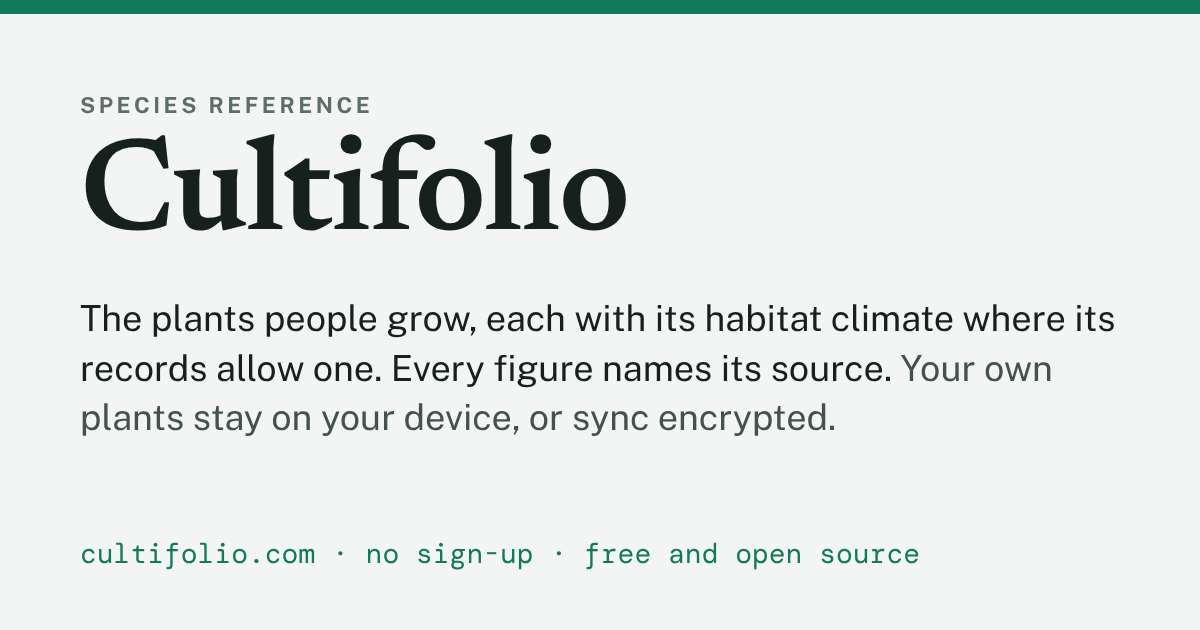
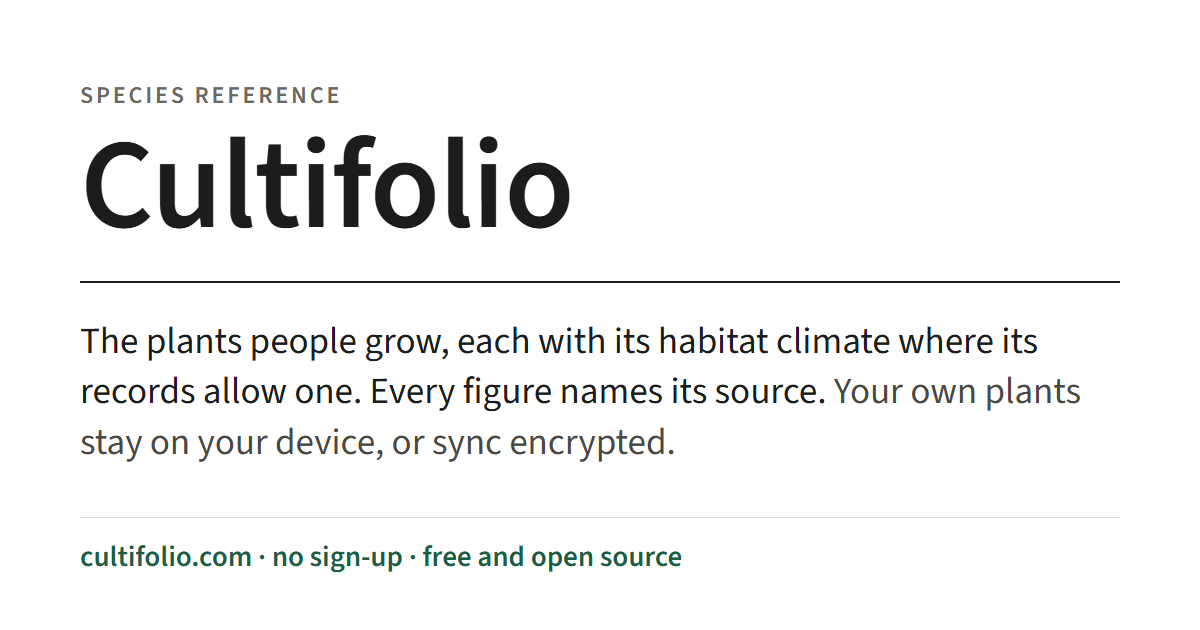
Round 90: the link-preview image in round 87's type, from the site's own font files; a dry run of the typical-spot rule, ready to run; BHL by IPNI's title measured; the record
The link-preview image (static/app/og.png, what a shared cultifolio.com link shows) was still drawn in Newsreader,
Public Sans and DM Mono on a green bar, the look round 87 replaced, and scripts/dev/og.mjs read those faces from their
npm packages. It is drawn again from scripts/dev/og.html in Source Sans 3 alone (the wordmark at the site's weight 600,
near-black on white, a rule under the name, the address line in the link green), from static/fonts/, with the words
unchanged so OG_ALT still says them. Nothing in the project now reads the three old packages; the owner removes them from
package.json in a commit of his own.

scripts/corpus-plan-r90-typical.txt: a dry run of every page under this round's code, then a review whose checks hold
climates gained and lost at 50 or under and read the typical spots moved. It writes nothing to the corpus and uploads
nothing; it runs after a day's daily run.

Lead 2 measured on 250 of the 3,997 citations the BHL fill had asked: IPNI gives no page, but its publication's BHL title
id. Asked by it, BHL gave the fill's page on 92 of 100 the fill had linked (none another), and a page on 22 of 150 it had
not, all of them citations where Kew's title matched several books. 1,427 of the fill's 3,082 none are that case.

Tests: r90e-og-faces (3 of 4 FAILED on 8df264e: og.mjs read the old faces' packages), r90f-typical-plan (the plan's
[…]

diff --git a/tests/unit/r90e-og-faces.test.ts b/tests/unit/r90e-og-faces.test.ts
@@ -1,0 +1,59 @@
+/**
+ * Round ninety: the link-preview image (static/app/og.png, drawn by scripts/dev/og.mjs from scripts/dev/og.html) in round
+ * eighty-seven's type, from the files the site serves, and nothing in the project left reading the old faces' packages, so
+ * the owner can remove them from package.json (@fontsource-variable/newsreader, @fontsource-variable/public-sans,
+ * @fontsource/dm-mono).
+ *
+ * On 8df264e: FAILED. og.mjs read the three faces from node_modules/@fontsource…, og.html drew Newsreader, Public Sans and
+ * DM Mono on a green bar, and the image was that drawing: every share of a cultifolio.com link showed the look round
+ * eighty-seven replaced.
+ */
+import { describe, it, expect } from 'vitest';
+import { readFileSync, readdirSync, statSync } from 'node:fs';
+import { join } from 'node:path';
+
+const OLD = /@fontsource-variable\/newsreader|@fontsource-variable\/public-sans|@fontsource\/dm-mono/;
+
+/** Every file under a folder with one of the extensions, the folder's own node_modules left out. */
+function files(dir: string, ext: RegExp): string[] {
+  const out: string[] = [];
+  for (const e of readdirSync(dir, { withFileTypes: true })) {
+    if (e.name === 'node_modules' || e.name.startsWith('.')) continue;
+    const p = join(dir, e.name);
+    if (e.isDirectory()) out.push(...files(p, ext));
+    else if (ext.test(e.name)) out.push(p);
+  }
+  return out;
+}
+
+describe('r90e: the link-preview image in the site\'s own faces', () => {
+  it('og.mjs reads the fonts the site serves, not an npm package', () => {
+    const js = readFileSync('scripts/dev/og.mjs', 'utf8');
+    expect(js).not.toMatch(/@fontsource|node_modules/); // base: node_modules/@fontsource-variable/newsreader/…
+    expect(js).toContain("'static/fonts/'");
+    expect(statSync('static/fonts/source-sans-3/source-sans-3-latin-wght-normal.woff2').size).toBeGreaterThan(10_000);
+  });
+
+  it('og.html draws in Source Sans 3 alone, on the light theme\'s white and ink', () => {
+    const html = readFileSync('scripts/dev/og.html', 'utf8').replace(/<!--[\s\S]*?-->/, '');
+    expect([...html.matchAll(/font-family: '([^']+)'/g)].map((m) => m[1])).toEqual(['Source Sans 3', 'Source Sans 3']);
+    expect(html).not.toMatch(/Newsreader|Public Sans|DM Mono|FONT_SERIF|FONT_MONO/);
+    const css = readFileSync('src/lib/ui/theme.css', 'utf8');
+    for (const c of ['#ffffff', '#1b1d1c', '#1d5c45']) {
+      expect(html, c).toContain(c);
+      expect(css, c).toContain(c);
+    }
+  });
+
+  it('the image is a 1200 × 630 PNG', () => {
+    const png = readFileSync('static/app/og.png');
+    expect(png.subarray(1, 4).toString()).toBe('PNG');
+    expect([png.readUInt32BE(16), png.readUInt32BE(20)]).toEqual([1200, 630]);
+  });
+
+  it('nothing in the project imports the old faces\' packages, so removing them from package.json breaks nothing', () => {
+    const all = [...files('src', /\.(ts|js|svelte|css|html)$/), ...files('scripts', /\.(ts|js|mjs|cjs|html)$/), ...files('tests', /\.(ts|js|mjs)$/).filter((f) => !f.endsWith('r90e-og-faces.test.ts')), 'svelte.config.js', 'vite.config.ts'];
+    const using = all.filter((f) => OLD.test(readFileSync(f, 'utf8')));
+    expect(using).toEqual([]); // base: scripts/dev/og.mjs
+  });
+});

diff --git a/scripts/dev/og.html b/scripts/dev/og.html
@@ -4,28 +4,27 @@
   page's own (the title, the pitch's first two sentences, the head's "No sign-up"), and OG_ALT in src/lib/ui/ref/head.ts
   says them as they are drawn: change one, change the other. No figure on it: the counts move with every corpus, and an
   image is not redrawn with the corpus (round sixty-three; the review of round sixty-two, 8 and 11).
-  The fonts are the site's, put in by og.mjs (FONT_* below); the colours are theme.css's light theme.
+  Round ninety: drawn in round eighty-seven's type and look (the owner's): Source Sans 3 for every word, the wordmark at the
+  site's weight 600, near-black on white, thin rules, the link green; it was still Newsreader, Public Sans and DM Mono on a
+  green bar. The fonts are the files the site serves (static/fonts/), put in by og.mjs (FONT_* below); the colours are
+  theme.css's light theme.
 -->
 <html lang="en-GB">
 <head>
 <meta charset="utf-8">
 <style>
-  @font-face { font-family: 'Newsreader Variable'; font-weight: 200 800; src: url(FONT_SERIF) format('woff2'); }
-  @font-face { font-family: 'Public Sans Variable'; font-weight: 100 900; src: url(FONT_SANS) format('woff2'); }
-  @font-face { font-family: 'DM Mono'; font-weight: 400; src: url(FONT_MONO) format('woff2'); }
+  @font-face { font-family: 'Source Sans 3'; font-style: normal; font-weight: 200 900; src: url(FONT_SANS) format('woff2'); }
   html, body { margin: 0; }
-  body { width: 1200px; height: 630px; overflow: hidden; background: #f3f5f4; color: #16211d; font-family: 'Public Sans Variable', sans-serif; position: relative; }
-  .bar { position: absolute; inset: 0 0 auto 0; height: 14px; background: #12795a; }
-  main { position: absolute; left: 80px; right: 80px; top: 92px; }
-  .kick { font-size: 22px; font-weight: 700; letter-spacing: 0.16em; text-transform: uppercase; color: #5f6d67; margin: 0; }
-  h1 { font-family: 'Newsreader Variable', serif; font-weight: 600; font-size: 132px; line-height: 1; letter-spacing: -0.015em; margin: 14px 0 30px; }
-  p.pitch { font-size: 36px; line-height: 1.38; margin: 0; max-width: 1040px; color: #16211d; }
-  p.pitch span { color: #44524c; }
-  p.foot { position: absolute; left: 80px; bottom: 58px; margin: 0; font-family: 'DM Mono', monospace; font-size: 28px; color: #12795a; }
+  body { width: 1200px; height: 630px; overflow: hidden; background: #ffffff; color: #1b1d1c; font-family: 'Source Sans 3', sans-serif; position: relative; }
+  main { position: absolute; left: 80px; right: 80px; top: 78px; }
+  .kick { font-size: 24px; font-weight: 600; letter-spacing: 0.12em; text-transform: uppercase; color: #6b685f; margin: 0; }
+  h1 { font-weight: 600; font-size: 128px; line-height: 1; letter-spacing: -0.01em; margin: 10px 0 0; padding-bottom: 30px; border-bottom: 2px solid #1b1d1c; }
+  p.pitch { font-size: 37px; line-height: 1.36; margin: 34px 0 0; max-width: 1040px; color: #1b1d1c; }
+  p.pitch span { color: #4a4842; }
+  p.foot { position: absolute; left: 80px; right: 80px; bottom: 52px; margin: 0; padding-top: 18px; border-top: 1px solid #d9d6cf; font-size: 29px; font-weight: 600; color: #1d5c45; }
 </style>
 </head>
 <body>
-  <div class="bar"></div>
   <main>
     <p class="kick">Species reference</p>
     <h1>Cultifolio</h1>

diff --git a/tests/unit/r90f-typical-plan.test.ts b/tests/unit/r90f-typical-plan.test.ts
@@ -1,0 +1,39 @@
+/**
+ * Round ninety: scripts/corpus-plan-r90-typical.txt, the dry run that shows what the typical-spot rule of 14 November 2026
+ * (r90c) moves before the next walk moves it. The plan derives and writes nothing to the corpus: one dry run, then a review
+ * whose checks hold the climates gained and lost near zero and name the spots moved. No walk, no index, no upload.
+ *
+ * On 8df264e: FAILED (the plan was not there).
+ */
+import { describe, it, expect } from 'vitest';
+import { readFileSync } from 'node:fs';
+import { parsePlan } from '../../scripts/corpus-step.mjs';
+import { runChecks } from '../../scripts/review-checks.mjs';
+import { DryRunTotals } from '../../src/lib/dossier/range-dry-run';
+
+const plan = parsePlan(readFileSync('scripts/corpus-plan-r90-typical.txt', 'utf8')) as Array<{ line: string; kind: string; expects: Array<{ text: string }> }>;
+
+describe('r90f: the typical-spot dry run', () => {
+  it('one dry run of every page, offline, with the climate grid, then a review', () => {
+    expect(plan.map((s) => s.line.split(' ').slice(0, 2).join(' '))).toEqual(['dossier --dry-run', 'review Read']);
+    expect(plan[0].line).toBe('dossier --dry-run --offline --grid climate --bulk bulk');
+  });
+  it('writes nothing to the corpus and uploads nothing', () => {
+    expect(plan.some((s) => /--walk|--index|--keys|--fill/.test(s.line) || ['upload', 'backup', 'live-check'].includes(s.kind))).toBe(false);
+  });
+  it('the review checks its own figures: climates gained and lost at most 50, the spots moved read', () => {
+    expect(plan[1].expects?.map((e) => e.text)).toEqual(['let G /climates: ([\\d,]+) gained/', 'let L /climates: [\\d,]+ gained, ([\\d,]+) lost/', 'let M /typical spots moved: ([\\d,]+)/', 'G <= 50', 'L <= 50', 'M >= 0', 'no /COULD NOT BE READ/']);
+  });
+  it("the checks read the dry run's own summary: they pass on a run that moves spots, and stop one that loses climates", () => {
+    const run = (gained: number, lost: number, moved: number) => {
+      const t = new DryRunTotals();
+      Object.assign(t, { pages: 48375, changedPages: moved, climateGained: gained, climateLost: lost, spotsMoved: moved, spotsMoved10: moved });
+      return runChecks(plan[1].expects, t.lines(true).join('\n'));
+    };
+    const ok = run(0, 2, 1234);
+    expect(ok.pass, ok.lines.join('\n')).toBe(true);
+    expect(ok.lines).toContain('    M = 1,234');
+    expect(run(0, 51, 1234).pass).toBe(false);
+    expect(run(60, 0, 1234).pass).toBe(false);
+  });
+});

diff --git a/docs/ROUND-90.md b/docs/ROUND-90.md
@@ -84,6 +84,40 @@ changed as a fill changes it: refused at once; with every stamp holding, the pro
    section: the DOI linked, the datasets and records it names and the day they were counted, and GBIF's citation as GBIF
    gives it. Tests: r87p-data 4 and r87p 2 (before, both held that no derived dataset was registered).
 
+## While the daily runs go on (14 November 2026, the owner: "get 1-3 done")
+
+1. **The link-preview image in round 87's type.** `static/app/og.png` (what a shared cultifolio.com link shows) was still
+   drawn in Newsreader, Public Sans and DM Mono on a green bar, the look round 87 replaced, and `scripts/dev/og.mjs` read
+   those faces from their npm packages. It is drawn again from `scripts/dev/og.html` in Source Sans 3 alone, the
+   wordmark at the site's weight 600, near-black on white with a rule under the name and a hairline over the address line
+   in the link green, from the file the site serves (`static/fonts/source-sans-3/`). The words are as they were, so
+   `OG_ALT` still says them. Test: `tests/unit/r90e-og-faces.test.ts`, which also holds that nothing in the project reads
+   the three old packages, so the owner can remove them from `package.json`.
+2. **A dry run of the typical-spot rule, ready to run.** `scripts/corpus-plan-r90-typical.txt`: `dossier --dry-run
+   --offline --grid climate --bulk bulk` over every page, then a review whose checks hold the climates gained and lost at
+   50 or under and read "typical spots moved: M". It writes no dossier, index or cache and uploads nothing; it is to run
+   after a day's daily run has stopped. Stage 2's own dry-run list is kept as `dry-run-ranges-r87s2.txt` (not in git),
+   since this run writes `dry-run-ranges.txt` again. Test: `tests/unit/r90f-typical-plan.test.ts`.
+
+3. **Lead 2 measured: BHL by IPNI's title.** IPNI does not give the page a name was published on: its name record
+   (`https://www.ipni.org/api/1/n/urn:lsid:ipni.org:names:<id>`) gives its publication's BHL title id (`bhlTitleLink`,
+   `bibliography/<n>`) and a resolver query built on it, still to be asked. So it saves no request. What it gives is the
+   title, which is where Kew's abbreviations go wrong: BHL's resolver answers `pid=title:<n>` with the volume, page and
+   year (`Melet. Bot.: 20 (1832)` by title 40101 gave page 28142661, the fill's page). Measured on 14 November 2026 on 250
+   of the 3,997 citations the fill had asked (100 it linked, 150 it did not), each answer judged by the fill's own
+   `bhlPage` (one citation, its page, volume, year and title): of the 100 linked, 92 gave the same page, none another
+   page, 8 no page (4 several citations, 3 no title in IPNI, 1 a volume); of the 150 not linked, 22 gave a page, 47 have
+   no BHL title in IPNI, and 81 stay none. All 22 gains were citations the fill refused because Kew's title matched
+   several books ("BHL's resolver gave 2 citations, not one": most of them copies of Linnaeus's Species Plantarum), which
+   IPNI's title id names one of. Of the fill's 3,082 none, 1,427 (46%) are that case, and IPNI's title gave a page for 22 of
+   the 82 in the sample (27%).
+
+   **So a second ask, by IPNI's title, only where Kew's title gave several citations**, keeping the fill's first answer
+   everywhere else (so the 8 above are not lost), would link about a quarter of those: about 385 more pages on the 3,997
+   asked so far (915 now), and on the whole fill perhaps 3,500 more, about 40% more than the fill alone. Its cost: one IPNI
+   request and one BHL request for each such citation, about 14,000 of each over the fill, so three or four more days of
+   BHL's allowance. IPNI would be credited for the choice of title on the page's line. Not built: the owner's decision.
+
 ## Leads for gathering faster, and only when needed (not done; each to be measured before it is built)
 
 These came up while reading the fills. None is in this round's code. Each would follow round 88's rule: a lead is
